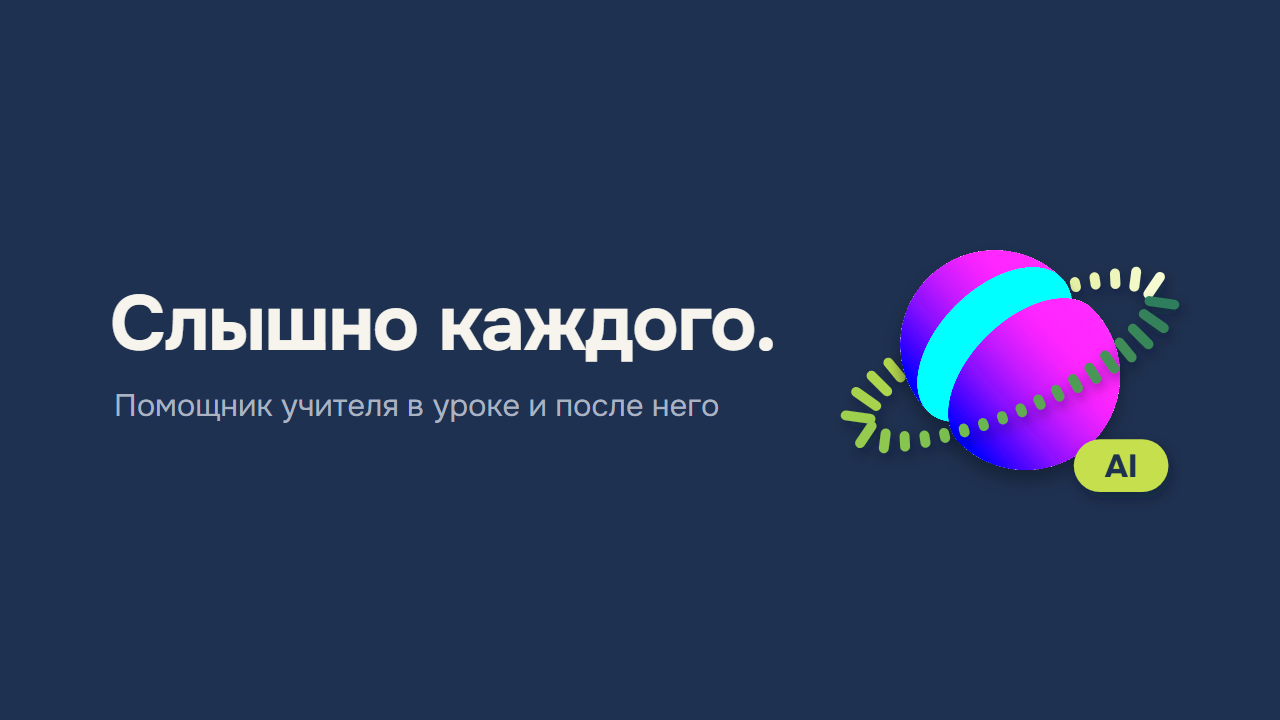
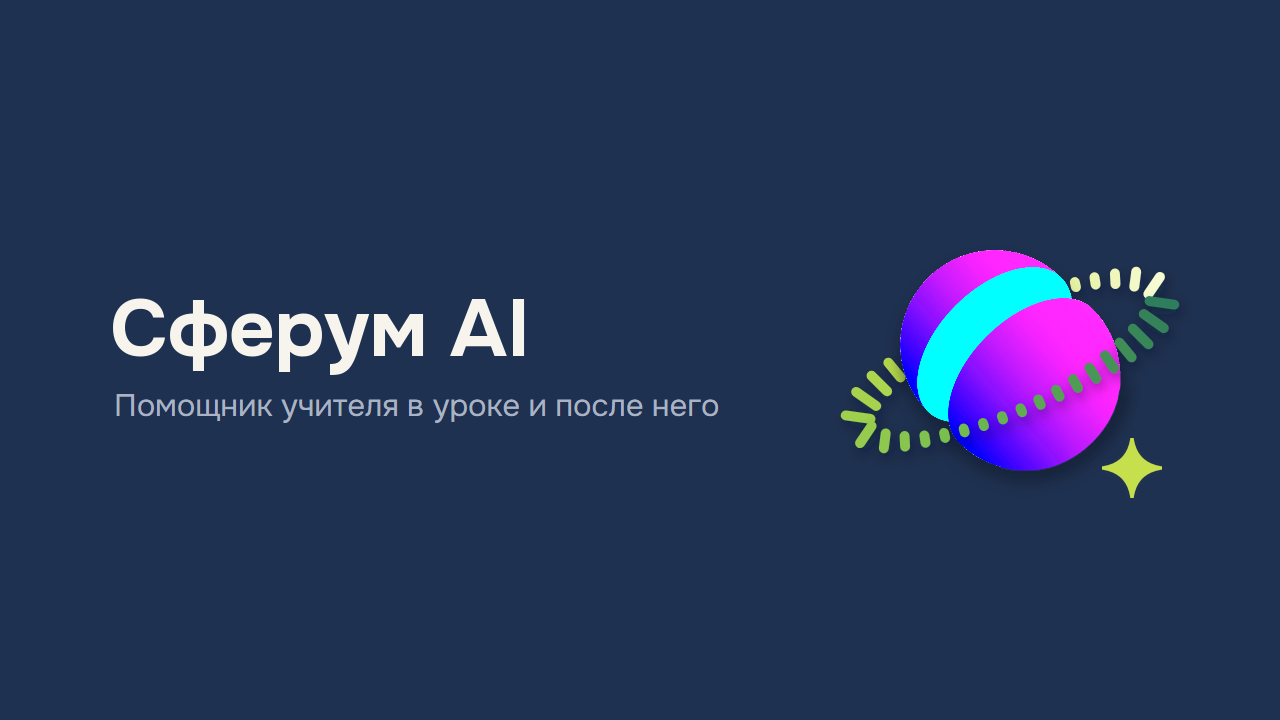
/start: одно сообщение с «Начать», обложка «Сферум AI» (#109)
* /start одним сообщением с кнопкой «Начать»; обложка «Сферум AI» со звездой

- вступление и «Начать» в одном сообщении; «Кто вы?» или меню — по кнопке
- из вступления убрана строка про локальную имитацию, без точки в конце
- обложка: заголовок «Сферум AI» без точки, вместо значка «AI» у планеты —
  салатовая звезда со шкалы ученика без подложки

* Обложка /start в 4:3: MAX срезал края у 16:9

* Меню бота по текущей роли; квадратная обложка /start

- «Начать» и любое сообщение: учителю — его классы, ученику — его, без двух
  меню сразу у того, кто в разных классах в разных ролях; роли нет — «Кто вы?»
- «Назад» без классов в своей роли — к выбору роли, а не по кругу
- обложка /start квадратная: MAX срезал края и у 4:3

Changed region(s): [[0.0938, 0.3972, 0.625, 0.5194], [0.8125, 0.6111, 0.9375, 0.7028]]

diff --git a/app/bot/max_bot.py b/app/bot/max_bot.py
@@ -46,7 +46,7 @@ log = logging.getLogger(__name__)
 MINCIFRY_ROOT_CA = ROOT / "certs" / "russian_trusted_root_ca.pem"
 
 UPDATE_TYPES = "message_created,message_callback,bot_started"
-# Обложка для первого сообщения /start (design/bot/cover.png)
+# Обложка для первого сообщения /start: квадратная — MAX показывает картинку почти квадратом и срезает края (design/bot/start-card.png)
 COVER = Path(__file__).parent / "assets" / "cover.png"
 # Что показывает бот — первым сообщением на /start, до «Кто вы?»
 INTRO = (
@@ -56,9 +56,7 @@ INTRO = (
     "каждого ученика. Учитель видит участие всего класса, а ученик видит только свою шкалу. "
     "После урока учитель получает сводку: кто вытянул урок, кто выпал и кого спросить в следующий раз. "
     "Ученик получает личную карточку о своём прогрессе.\n\n"
-    "Пока вместо звонка Сферума работает его локальная имитация. "
-    "В будущем урок будет запускаться прямо в Сферуме отсюда.\n\n"
-    "Быстрее всего начать с «Посмотреть демо»."
+    "Быстрее всего начать с «Посмотреть демо»"
 )
 # Команды в подсказке «/» в MAX
 COMMANDS = [{"name": "start", "description": "Что умеет бот и с чего начать"}]
@@ -118,10 +116,13 @@ class MaxApi:
             return body["token"]
         return next(iter(body["photos"].values()))["token"]
 
-    def send_image(self, user_id: int, token: str, text: str, retries: int = 4) -> None:
-        """Сообщение с картинкой. MAX обрабатывает файл после загрузки: пока не готов —
+    def send_image(self, user_id: int, token: str, text: str, buttons: list[list[dict]] | None = None,
+                   retries: int = 4) -> None:
+        """Сообщение с картинкой (и кнопками). MAX обрабатывает файл после загрузки: пока не готов —
         attachment.not.ready, повторяем с растущей паузой."""
         body = {"text": text, "attachments": [{"type": "image", "payload": {"token": token}}]}
+        if buttons:
+            body["attachments"].append({"type": "inline_keyboard", "payload": {"buttons": buttons}})
         for attempt in range(retries + 1):
             res = self.http.post("/messages", params={"user_id": user_id}, json=body)
             if res.status_code < 400:
@@ -226,6 +227,7 @@ class Bot:
             "student": lambda: self.as_student(user_id),
             "demo": lambda: self.demo(user),  # кнопка из старых сообщений: теперь «Посмотреть демо» открывает приложение
             "back": lambda: self.back(user_id),
+            "begin": lambda: self.greet(user_id),  # «Начать» под вступлением /start
             "me": lambda: self.join(user_id, int(arg), full_name(user)),
             "rename": lambda: self.ask_name(user_id, int(arg)),
             "kick": lambda: self.kick(user_id, int(arg)),
@@ -274,28 +276,32 @@ class Bot:
     # ---------- кто вы ----------
 
     def start(self, user_id: int) -> None:
-        """/start и первый вход: что это за бот (с обложкой), следом — как обычно, «Кто вы?» или меню."""
+        """/start и первый вход: что это за бот (с обложкой) и «Начать» — по ней «Кто вы?» или меню."""
+        begin = [[callback("Начать", "begin")]]
         try:
             if self._cover is None:
                 self._cover = self.api.upload_image(COVER)
-            self.api.send_image(user_id, self._cover, INTRO)
+            self.api.send_image(user_id, self._cover, INTRO, begin)
         except Exception as exc:  # обложка не загрузилась — пояснение всё равно нужно
             log.warning("обложка /start не отправлена: %s", exc)
-            self.api.send(user_id, INTRO)
-        self.greet(user_id)
+            self.api.send(user_id, INTRO, begin)
 
     def greet(self, user_id: int) -> None:
+        """Меню по текущей роли — той же, что в мини-приложении: учителю его классы, ученику его.
+        Учитель, который где-то ещё и ученик, не получает оба меню сразу."""
         mine = db.classes_of(user_id)
-        teaching = [c for c, m in mine if m.role == "teacher"]
-        learning = [c for c, m in mine if m.role == "student"]
-        if not mine:
-            return self.choose_role(user_id)
-        if teaching:
-            self.teacher_menu(user_id, teaching)
-        if len(learning) == 1:
-            self.student_class(user_id, learning[0].id)
-        elif learning:
-            self.choose(user_id, [(label(c), f"class:{c.id}") for c in learning])
+        role = db.role_of(user_id)
+        if role == "teacher":
+            teaching = [c for c, m in mine if m.role == "teacher"]
+            return self.teacher_menu(user_id, teaching) if teaching else self.ask_class_name(user_id, first=True)
+        if role == "student":
+            learning = [c for c, m in mine if m.role == "student"]
+            if len(learning) == 1:
+                return self.student_class(user_id, learning[0].id)
+            if learning:
+                return self.choose(user_id, [(label(c), f"class:{c.id}") for c in learning])
+            return self.ask_code(user_id)
+        self.choose_role(user_id)
 
     def choose_role(self, user_id: int) -> None:
         """Шаг 1: кто вы. И «Выйти» в мини-приложении — выбрать роль заново.
@@ -453,8 +459,12 @@ class Bot:
         self.api.send(user_id, "Введите код класса. Его назовёт учитель.", [[callback("Назад", "back")]])
 
     def back(self, user_id: int) -> None:
-        """Нажал не ту кнопку: бот перестаёт ждать название или код и возвращает к выбору."""
+        """Нажал не ту кнопку: бот перестаёт ждать название или код и возвращает назад —
+        к меню своей роли, а если в этой роли классов нет, к выбору «Кто вы?»."""
         db.set_dialog(user_id, None)
+        role = db.role_of(user_id)
+        if not any(m.role == role for _, m in db.classes_of(user_id)):
+            return self.choose_role(user_id)
         self.greet(user_id)
 
     def code(self, user: dict, text: str) -> None:

diff --git a/tests/test_bot.py b/tests/test_bot.py
@@ -30,8 +30,8 @@ class FakeApi:
         assert path.exists()
         return f"token-{self.uploads}"
 
-    def send_image(self, user_id, token, text):
-        self.sent.append((user_id, text, None))
+    def send_image(self, user_id, token, text, buttons=None):
+        self.sent.append((user_id, text, buttons))
         self.images = [*getattr(self, "images", []), (user_id, token)]
 
     def to(self, user_id):
@@ -85,6 +85,7 @@ def join(b, user_id, code, **name):
 def test_stranger_chooses_teacher_student_or_demo(bot):
     b, api = bot
     b.handle(started(MARIA))
+    b.handle(press(MARIA, "begin"))  # «Начать» под вступлением
     message = api.to(MARIA)[-1]
     assert message[0] == "Здравствуйте! Я помогаю вести уроки в MAX. Кто вы?"
     assert [x["text"] for x in buttons(message)] == ["Я учитель", "Я ученик", "Посмотреть демо"]
@@ -421,18 +422,21 @@ def test_removed_student_and_class_of_deleted_class_are_told(bot):
 # ---------- /start: что это за бот ----------
 
 
-def test_start_sends_intro_with_cover_then_greeting(bot):
+def test_start_sends_intro_with_cover_and_begin_button(bot):
     from app.bot.max_bot import INTRO
 
     b, api = bot
     b.handle(started(MARIA))
-    messages = api.to(MARIA)
-    assert messages[0][0] == INTRO and "Сферум" in INTRO
+    intro = api.to(MARIA)
+    # одно сообщение: обложка, пояснение и «Начать»; «Кто вы?» — только по кнопке
+    assert len(intro) == 1 and intro[0][0] == INTRO and "Сферум AI" in INTRO
     assert api.images == [(MARIA, "token-1")]
-    assert messages[1][0] == "Здравствуйте! Я помогаю вести уроки в MAX. Кто вы?"
+    assert [x["text"] for x in buttons(intro[0])] == ["Начать"]
+    b.handle(press(MARIA, payload_of(intro[0], "Начать")))
+    assert api.to(MARIA)[-1][0] == "Здравствуйте! Я помогаю вести уроки в MAX. Кто вы?"
     # /start текстом — то же самое, обложка не грузится второй раз
     b.handle(text(MARIA, "/start"))
-    assert api.to(MARIA)[-2][0] == INTRO and api.uploads == 1
+    assert api.to(MARIA)[-1][0] == INTRO and api.uploads == 1
 
 
 def test_start_resets_waiting_for_code(bot):
@@ -449,3 +453,19 @@ def test_start_without_cover_still_explains(bot):
     api.upload_fails = True
     b.handle(started(MARIA))
     assert api.to(MARIA)[0][0] == INTRO
+
+
+def test_menu_follows_current_role(bot):
+    # учитель, который где-то ещё и ученик, получает только меню учителя — и наоборот
+    b, api = bot
+    c = make_class(b)  # TEACHER — учитель 10А
+    other = db.create_class(MARIA, "Мария Смирнова", "7Б", "физика")
+    db.join(other.id, TEACHER, "Елена Викторовна")  # и ученик в чужом классе
+    db.set_role(TEACHER, "teacher")
+    before = len(api.to(TEACHER))
+    b.handle(press(TEACHER, "begin"))
+    new = api.to(TEACHER)[before:]
+    assert len(new) == 1 and new[0][0].startswith("Ваши классы:")
+    db.set_role(TEACHER, "student")
+    b.handle(press(TEACHER, "begin"))
+    assert api.to(TEACHER)[-1][0].startswith("Вы в классе 7Б, физика")
